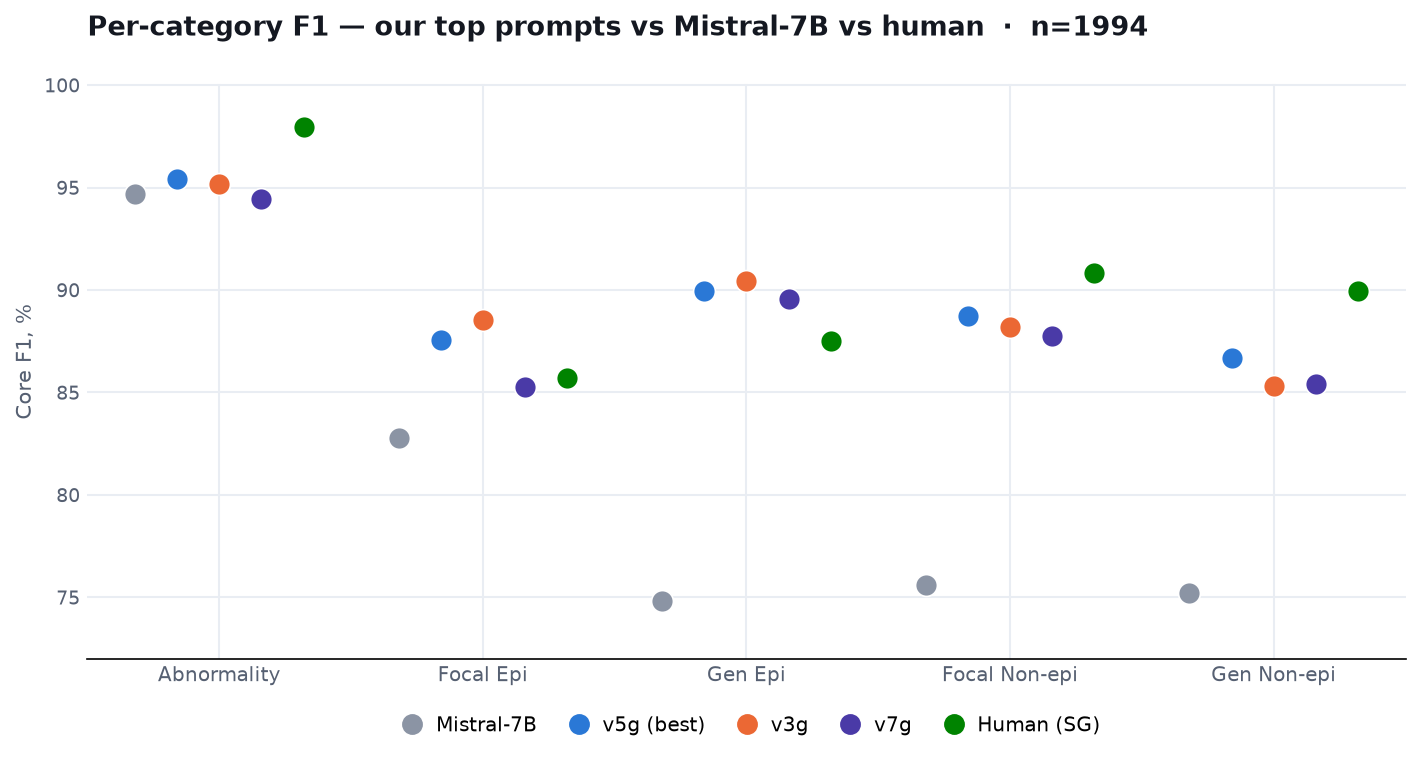
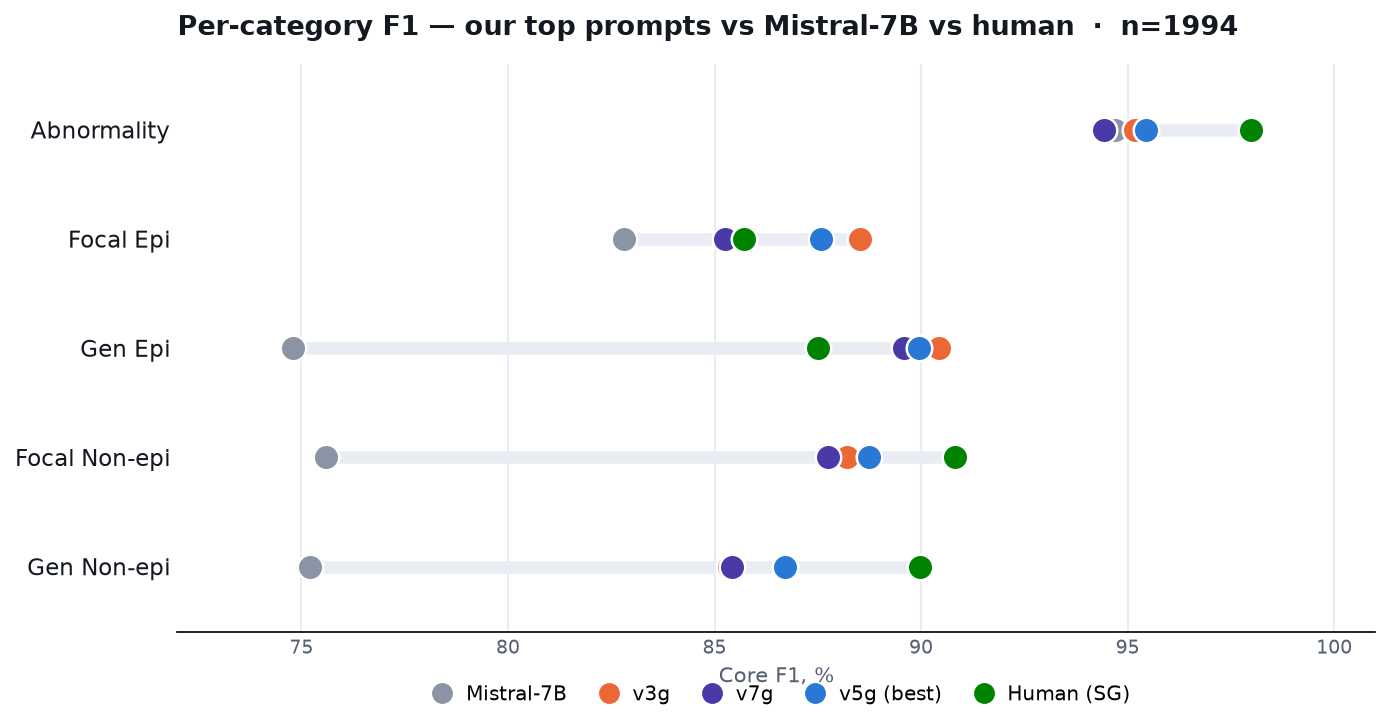
all_prompts report: horizontal per-category dot plot; add why-we-win (core vs certainty), Q2/Q4 and generalization charts, and per-prompt dumbbells (Q2+Q4) + Mistral

diff --git a/analysis/plot_all_prompts.py b/analysis/plot_all_prompts.py
@@ -106,34 +106,33 @@ def chart_whole():
 
 
 def chart_bycat():
-    # our top grammar prompts (Q2) alongside Mistral and the human annotator.
+    # Horizontal Cleveland dot plot: one row per category, a faint span line, and each
+    # model as a coloured dot — easier to read than clustered vertical groups.
+    from matplotlib.lines import Line2D
     v3g = pooled("v3g", "Q2"); v5g = pooled("v5g", "Q2"); v7g = pooled("v7g", "Q2")
-    # colours chosen so no adjacent pair collides (order = plot order, left→right)
     series = [
         ("Mistral-7B", MISTRAL_F1,                              GREY),
-        ("v5g (best)", [catf1(v5g, k, MODEL, LD) for k in KEYS], BLUE),
         ("v3g",        [catf1(v3g, k, MODEL, LD) for k in KEYS], ORANGE),
         ("v7g",        [catf1(v7g, k, MODEL, LD) for k in KEYS], VIOLET),
+        ("v5g (best)", [catf1(v5g, k, MODEL, LD) for k in KEYS], BLUE),
         ("Human (SG)", [catf1(v5g, k, SG, LD) for k in KEYS],    GREEN),
     ]
-    fig, ax = plt.subplots(figsize=(9.6, 5.2))
+    fig, ax = plt.subplots(figsize=(9.4, 5.0))
     fig.patch.set_facecolor("white"); ax.set_facecolor("white")
-    import numpy as np
-    x = np.arange(len(KEYS)); off = 0.16
-    from matplotlib.lines import Line2D
-    for xi in x:                                   # faint per-category guide
-        ax.plot([xi, xi], [70, 100], color=GRID, lw=1, zorder=0)
-    n = len(series)
-    for i, (name, vals, col) in enumerate(series):
-        xs = x + (i - (n - 1) / 2) * off
-        ax.scatter(xs, vals, s=110, color=col, zorder=3,
-                   edgecolor="white", linewidth=0.8)
-    ax.set_xticks(x); ax.set_xticklabels(LABELS, fontsize=9.5, color=INK2)
-    ax.set_xlim(-0.5, len(KEYS) - 0.5)
-    ax.set_ylim(72, 101); ax.set_ylabel("Core F1, %", color=INK2, fontsize=10)
-    ax.grid(axis="y", color=GRID, lw=1, zorder=0)
-    ax.tick_params(axis="y", colors=INK2, labelsize=9)
-    _bare(ax); ax.spines["left"].set_visible(False)
+    y = list(range(len(KEYS)))[::-1]               # first category on top
+    for ci, yi in enumerate(y):
+        vals = [s[1][ci] for s in series]
+        ax.plot([min(vals), max(vals)], [yi, yi], color=GRID, lw=6,
+                solid_capstyle="round", zorder=1)  # faint span
+        for name, v, col in series:
+            ax.scatter([v[ci]], [yi], s=150, color=col, zorder=3,
+                       edgecolor="white", linewidth=1.2)
+    ax.set_yticks(y); ax.set_yticklabels(LABELS, fontsize=11, color=INK)
+    ax.set_ylim(-0.6, len(KEYS) - 0.4)
+    ax.set_xlim(72, 101); ax.set_xlabel("Core F1, %", color=INK2, fontsize=10)
+    ax.grid(axis="x", color=GRID, lw=1, zorder=0)
+    ax.tick_params(axis="x", colors=INK2, labelsize=9)
+    _bare(ax)
     handles = [Line2D([0], [0], marker="o", linestyle="", markersize=9, color=c, label=l)
                for l, _, c in series]
     ax.legend(handles=handles, frameon=False, fontsize=9.5, loc="lower center",
@@ -145,6 +144,76 @@ def chart_bycat():
     plt.close(fig); print("saved all_prompts_bycat.png")
 
 
+def _grouped2(series, title, out, ylabel="Core F1, %", ylim=(72, 101)):
+    """Two-series grouped dot plot over the 5 categories, with value labels."""
+    from matplotlib.lines import Line2D
+    import numpy as np
+    fig, ax = plt.subplots(figsize=(9.2, 4.8))
+    fig.patch.set_facecolor("white"); ax.set_facecolor("white")
+    x = np.arange(len(KEYS)); off = 0.16
+    for xi in x:
+        ax.plot([xi, xi], list(ylim), color=GRID, lw=1, zorder=0)
+    for i, (name, vals, col) in enumerate(series):
+        xs = x + (i - 0.5) * off
+        ax.scatter(xs, vals, s=130, color=col, zorder=3, edgecolor="white", linewidth=1)
+        for xv, v in zip(xs, vals):
+            ax.text(xv, v + 0.7, f"{v:.0f}", ha="center", va="bottom", fontsize=8,
+                    color=col, fontweight="bold")
+    ax.set_xticks(x); ax.set_xticklabels(LABELS, fontsize=9.5, color=INK2)
+    ax.set_xlim(-0.5, len(KEYS) - 0.5); ax.set_ylim(*ylim)
+    ax.set_ylabel(ylabel, color=INK2, fontsize=10)
+    ax.grid(axis="y", color=GRID, lw=1, zorder=0)
+    ax.tick_params(axis="y", colors=INK2, labelsize=9)
+    _bare(ax); ax.spines["left"].set_visible(False)
+    handles = [Line2D([0], [0], marker="o", linestyle="", markersize=9, color=c, label=l)
+               for l, _, c in series]
+    ax.legend(handles=handles, frameon=False, fontsize=9.5, loc="lower center",
+              bbox_to_anchor=(0.5, -0.17), ncol=2, handletextpad=0.3)
+    ax.set_title(title, color=INK, fontsize=13, fontweight="bold", loc="left", pad=14)
+    fig.tight_layout(); fig.savefig(out, bbox_inches="tight", facecolor="white")
+    plt.close(fig); print("saved", out.name)
+
+
+def chart_q2_vs_q4():
+    q2 = pooled("v5g", "Q2"); q4 = pooled("v5g", "Q4")
+    _grouped2([("Q2_K (~10 GB)", [catf1(q2, k, MODEL, LD) for k in KEYS], BLUE),
+               ("Q4_K_S (~15 GB)", [catf1(q4, k, MODEL, LD) for k in KEYS], ORANGE)],
+              "Which quantization? — v5g Q2_K vs Q4_K_S per category  ·  n=1994",
+              OUT / "all_prompts_q2_vs_q4.png")
+
+
+def chart_generalization():
+    zoe = load("zoe", "v5g", "Q4"); maria = load("maria", "v5g", "Q4")
+    _grouped2([("Zoe (in-distribution)", [catf1(zoe, k, MODEL, LD) for k in KEYS], BLUE),
+               ("Maria (out-of-distribution)", [catf1(maria, k, MODEL, LD) for k in KEYS], ORANGE)],
+              "Generalization — v5g on the seen vs an unseen neurologist",
+              OUT / "all_prompts_generalization.png", ylim=(68, 101))
+
+
+def chart_dumbbells():
+    """Core F1 vs strict Certainty F1 (exact 1-4 level), per prompt with Q2 & Q4
+    overlaid, plus Mistral and the best-vs-Mistral headline. Reuses plot_dumbbells."""
+    from analysis.plot_dumbbells import (our_pairs, mistral_pairs, core_and_cert,
+                                         dumbbell, dumbbell_multi)
+    LAB = {"v3g": "v3g", "v5g": "v5g (best)", "v7g": "v7g",
+           "v8g": "v8g (simplified)", "v10g": "v10g (calibrated)"}
+    for pr in ["v5g", "v3g", "v7g", "v8g", "v10g"]:
+        c2, ct2 = core_and_cert(our_pairs(pr, "Q2"))
+        c4, ct4 = core_and_cert(our_pairs(pr, "Q4"))
+        dumbbell_multi([("Q2_K", c2, ct2, BLUE), ("Q4_K_S", c4, ct4, ORANGE)],
+                       f"MedGemma-27B · {LAB[pr]} — core vs certainty (Q2 vs Q4)",
+                       OUT / f"dumbbell_{pr}.png")
+    mc, mct = core_and_cert(mistral_pairs())
+    dumbbell("Mistral-7B — core vs certainty", mc, mct, OUT / "dumbbell_mistral.png")
+    v5c, v5ct = core_and_cert(our_pairs("v5g", "Q4"))
+    dumbbell_multi([("MedGemma v5g", v5c, v5ct, BLUE), ("Mistral-7B", mc, mct, ORANGE)],
+                   "MedGemma v5g vs Mistral-7B — core vs certainty",
+                   OUT / "all_prompts_v5g_vs_mistral.png")
+
+
 if __name__ == "__main__":
     chart_whole()
     chart_bycat()
+    chart_q2_vs_q4()
+    chart_generalization()
+    chart_dumbbells()

diff --git a/reports/all_prompts.md b/reports/all_prompts.md
@@ -50,6 +50,35 @@ and the slowing classes — exactly where the two humans disagree most. That the
 prompts land so close to each other is itself the point: the result is stable across our
 top variants, not a fluke of one prompt.
 
+## Why we win — confidence, not just direction
+
+![v5g vs Mistral — core vs certainty](figures/all_prompts_v5g_vs_mistral.png)
+
+**What you see:** each line runs from **Core F1** (● — did we get present/absent right?)
+to **Certainty F1** (○ — did we get the *exact* 1–4 confidence level?); the line length
+is how much is lost when the exact level is required. Our **v5g (blue)** beats Mistral on
+core almost everywhere, but the real separation is the **exact level**: Mistral's open
+circles collapse (Focal Epi 83 → **41**, Focal Non-epi 76 → 45, Gen Non-epi 75 → 52) — it
+points in the right direction but badly misjudges *how sure* to be — while v5g holds far
+better (Focal Epi 86 → 67, Focal Non-epi 89 → 63). Getting the confidence level right, not
+just the yes/no, is where our prompt+grammar approach pulls ahead.
+
+## Which quantization, and does it generalize?
+
+![Q2 vs Q4 per category](figures/all_prompts_q2_vs_q4.png)
+
+**What you see:** v5g on the two model sizes. They tie on whole-report accuracy (87.6%
+each); per category **Q2_K** is stronger on the epileptiform classes (Focal Epi 88 vs 86)
+while **Q4_K_S** is stronger on the diffuse/slowing classes (Gen Non-epi 89 vs 87). Pick
+Q2_K for half the footprint, Q4_K_S if encephalopathy/diffuse findings matter most.
+
+![Generalization — Zoe vs Maria](figures/all_prompts_generalization.png)
+
+**What you see:** the same model on the **seen** neurologist (Zoe) and an **unseen** one
+(Maria). Performance holds across reporting styles — the epileptiform and focal classes are
+as strong or stronger on the unseen data — so the model generalizes rather than fitting one
+annotator's phrasing.
+
 ## Full numbers (pooled n=1994)
 
 | Prompt | Abnorm | Focal Epi | Gen Epi | Focal Non | Gen Non | Whole vs LD | Whole vs SG |
@@ -90,12 +119,42 @@ real gain, not fitting to LD; the residual gap to the human is close to the leve
 human–human disagreement, which is a reason to validate carefully rather than a claim that
 nothing more is possible.
 
+## Per-prompt detail — core vs certainty, Q2 vs Q4
+
+One chart per prompt, each overlaying both quantizations. The **filled dot** is Core F1
+(present/absent), the **open circle** is strict Certainty F1 (exact 1–4 level); the line
+length is the drop when the exact level is required. All pooled over 1994 reports.
+
+**v5g (best):**
+
+![v5g core vs certainty](figures/dumbbell_v5g.png)
+
+**v3g:**
+
+![v3g core vs certainty](figures/dumbbell_v3g.png)
+
+**v7g:**
+
+![v7g core vs certainty](figures/dumbbell_v7g.png)
+
+**v8g (simplified):**
+
+![v8g core vs certainty](figures/dumbbell_v8g.png)
+
+**v10g (calibrated):**
+
+![v10g core vs certainty](figures/dumbbell_v10g.png)
+
+**Mistral-7B (reference):**
+
+![Mistral core vs certainty](figures/dumbbell_mistral.png)
+
 ## Reproduce
 
 ```bash
 pip install -e .
 python -m analysis.make_tables         # the numbers tables
-python -m analysis.plot_all_prompts    # the two charts above -> reports/figures/
+python -m analysis.plot_all_prompts    # every chart in this report -> reports/figures/
 python -m analysis.validate_vs_sg      # cross-annotator validation
 ```
 Per-run job IDs and hypotheses: [`../experiments/`](../experiments/). Model: MedGemma-27B
